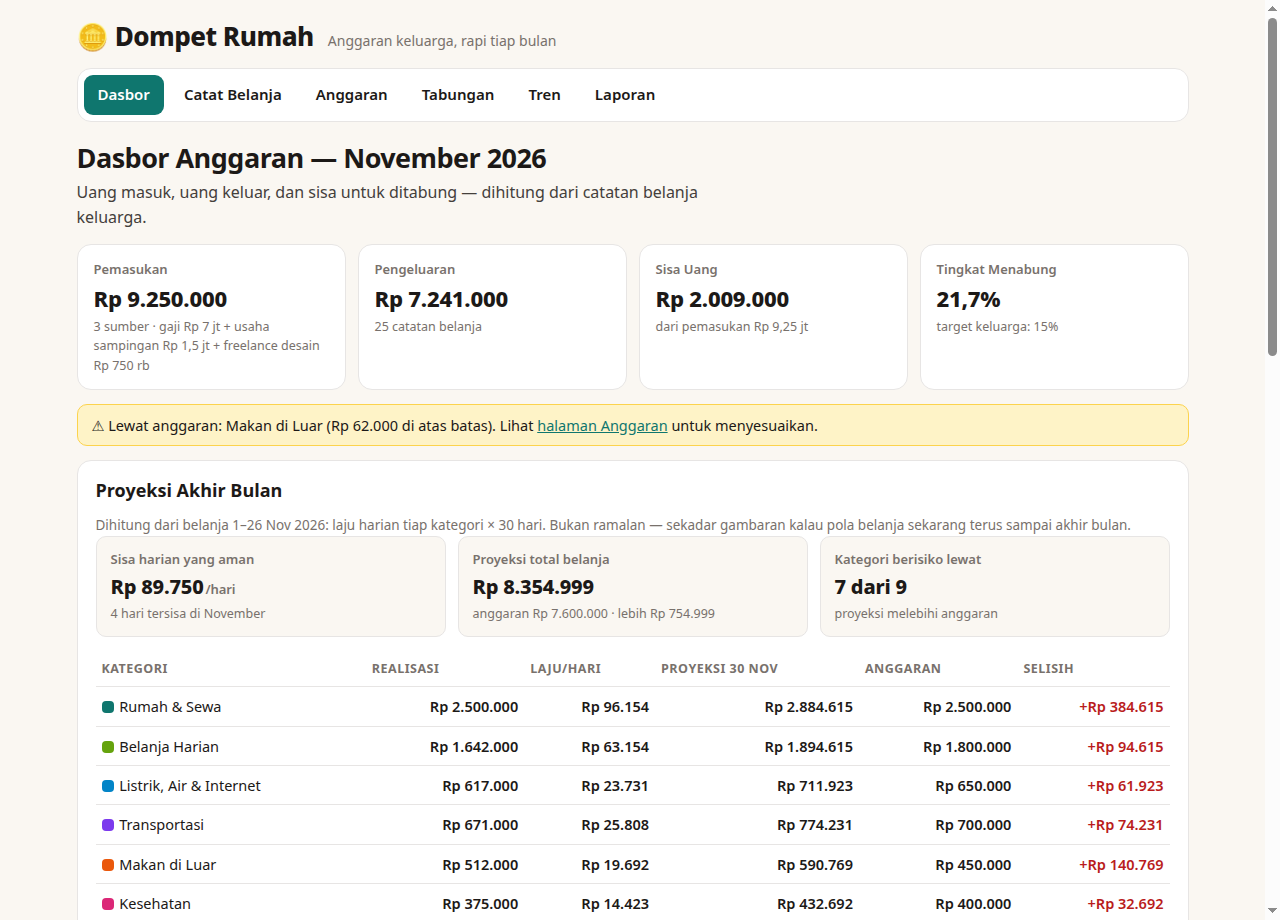
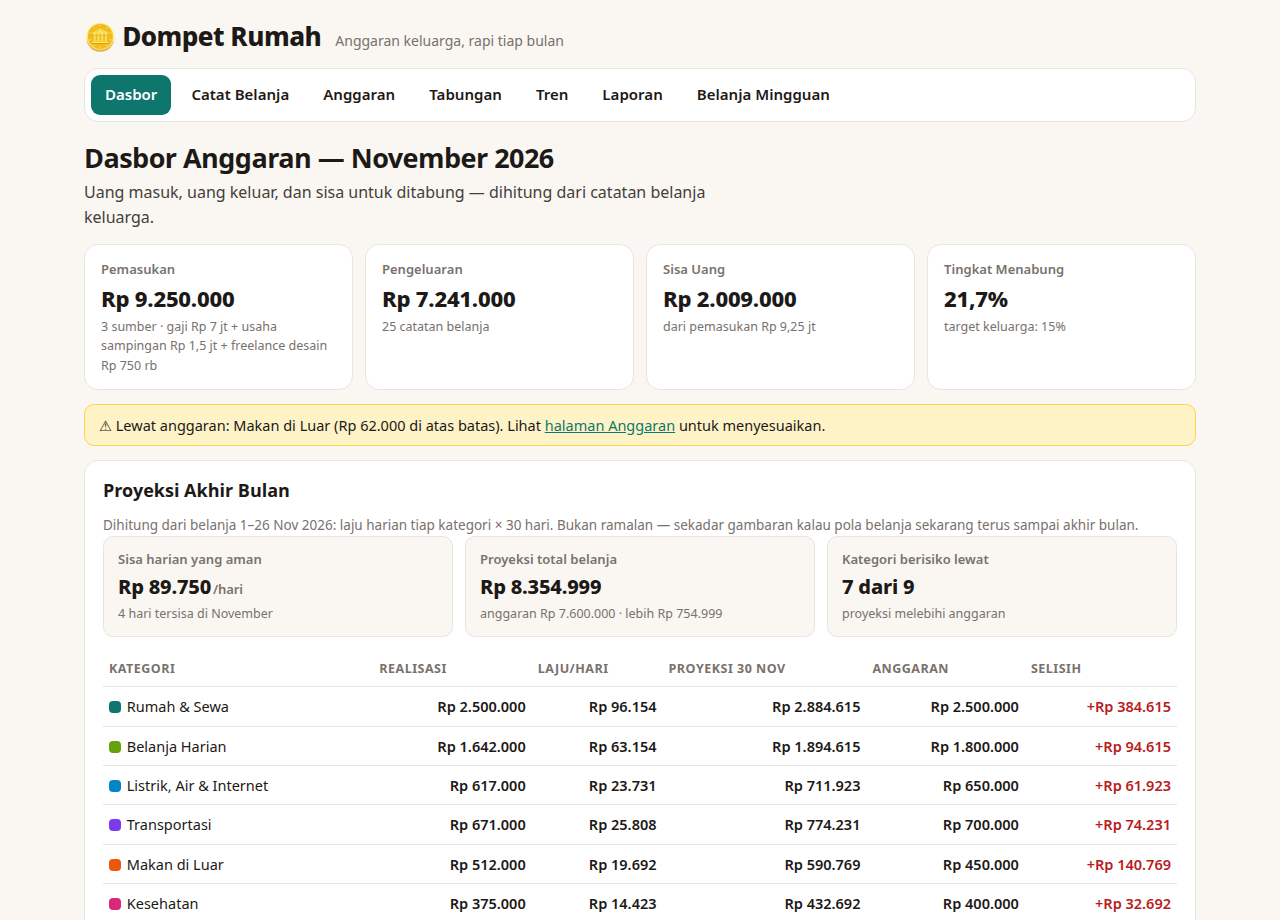
Rebuild: halaman Rencana Belanja Mingguan (#/planner) dengan anggaran, daftar centang, dan tambah/hapus barang

diff --git a/app/data.js b/app/data.js
@@ -70,6 +70,23 @@ const seedState = {
     { id: 'g2', name: 'Liburan Keluarga ke Bali', detail: 'Berangkat Juni 2027, 4 orang', target: 5000000, saved: 2150000, monthly: 500000, color: '#0284c7' },
     { id: 'g3', name: 'Motor Baru', detail: 'Ganti motor lama yang sering mogok', target: 15000000, saved: 4800000, monthly: 600000, color: '#ca8a04' },
   ],
+  // Rencana belanja mingguan: daftar barang untuk minggu 23–29 Nov 2026,
+  // masing-masing dengan perkiraan harga dan tanda sudah dibeli atau
+  // belum. Anggaran mingguan di bawah diambil dari anggaran Belanja
+  // Harian, dibagi empat minggu — halaman Belanja Mingguan menghitung
+  // sendiri berapa yang masih perlu dibeli dari daftar ini.
+  weeklyGroceryBudget: 450000,
+  shopping: [
+    { id: 's01', name: 'Beras 10 kg', category: 'Bahan pokok', price: 128000, bought: false, added: '2026-11-23' },
+    { id: 's02', name: 'Ayam potong 1 kg', category: 'Daging & ikan', price: 36000, bought: false, added: '2026-11-23' },
+    { id: 's03', name: 'Telur ayam 1 kg', category: 'Daging & ikan', price: 28000, bought: true, added: '2026-11-23' },
+    { id: 's04', name: 'Sayur bayam & kangkung', category: 'Sayur & buah', price: 15000, bought: false, added: '2026-11-23' },
+    { id: 's05', name: 'Minyak goreng 2 liter', category: 'Bahan pokok', price: 42000, bought: false, added: '2026-11-24' },
+    { id: 's06', name: 'Sabun cuci & deterjen', category: 'Kebersihan', price: 38000, bought: false, added: '2026-11-24' },
+    { id: 's07', name: 'Buah pisang & jeruk', category: 'Sayur & buah', price: 32000, bought: true, added: '2026-11-25' },
+    { id: 's08', name: 'Kopi & gula pasir', category: 'Bahan pokok', price: 45000, bought: false, added: '2026-11-25' },
+    { id: 's09', name: 'Susu UHT 1 liter', category: 'Minuman', price: 21000, bought: false, added: '2026-11-26' },
+  ],
   // Six months of history for the trend page (income vs money actually spent).
   history: [
     { month: 'Jun 2026', income: 8500000, spent: 7050000 },
@@ -104,6 +121,21 @@ function loadState() {
         if (!Number.isFinite(Number(goal.monthly)) || Number(goal.monthly) < 0) goal.monthly = 0;
         goal.monthly = Math.round(Number(goal.monthly));
       }
+    }
+    // Migrasi data lama: daftar belanja mingguan belum ada sebelum fitur
+    // ini, jadi data tersimpan lama dilengkapi dari data contoh dan tiap
+    // barangnya dirapikan (harga dibulatkan, tanda sudah dibeli dijaga).
+    if (!Array.isArray(parsed.shopping)) parsed.shopping = structuredClone(seedState.shopping);
+    parsed.shopping = parsed.shopping.map((item, index) => ({
+      id: item.id || 's' + Date.now().toString(36) + index,
+      name: String(item.name || 'Barang belanja'),
+      category: String(item.category || 'Lainnya'),
+      price: Math.max(0, Math.round(Number(item.price) || 0)),
+      bought: item.bought === true,
+      added: typeof item.added === 'string' && item.added ? item.added : '2026-11-26',
+    }));
+    if (!Number.isFinite(Number(parsed.weeklyGroceryBudget)) || Number(parsed.weeklyGroceryBudget) < 0) {
+      parsed.weeklyGroceryBudget = seedState.weeklyGroceryBudget;
     }
     return parsed;
   } catch {
@@ -333,6 +365,34 @@ function estimateMonthLabel(months) {
   const baseYear = 2026;
   const total = baseMonth + months;
   return `${names[total % 12]} ${baseYear + Math.floor(total / 12)}`;
+}
+
+// ---- Rencana belanja mingguan. ----
+
+// Kategori barang belanja — dipakai daftar pilihan di formulir tambah
+// barang, supaya kategori yang diketik keluarga tidak berantakan ejaannya.
+const SHOPPING_CATEGORIES = ['Bahan pokok', 'Sayur & buah', 'Daging & ikan', 'Minuman', 'Kebersihan', 'Lainnya'];
+
+// Total rencana belanja: anggaran mingguan, perkiraan harga barang yang
+// belum dibeli, dan yang sudah dibeli — dipakai kartu anggaran dan bilah
+// kemajuan di halaman Belanja Mingguan.
+function plannerTotals(state) {
+  const items = Array.isArray(state.shopping) ? state.shopping : [];
+  const budget = Number(state.weeklyGroceryBudget) || 0;
+  const bought = items.filter((item) => item.bought);
+  const pending = items.filter((item) => !item.bought);
+  const boughtTotal = bought.reduce((sum, item) => sum + (Number(item.price) || 0), 0);
+  const pendingTotal = pending.reduce((sum, item) => sum + (Number(item.price) || 0), 0);
+  return {
+    budget,
+    count: items.length,
+    boughtCount: bought.length,
+    pendingCount: pending.length,
+    boughtTotal,
+    pendingTotal,
+    remaining: budget - pendingTotal,
+    over: pendingTotal > budget,
+  };
 }
 
 // CSV export for the monthly report page: one row per expense, newest

diff --git a/app/main.js b/app/main.js
@@ -9,6 +9,7 @@
 //   #/expenses   expense log    #/trends  six-month trend
 //   #/budget     budget vs actual
 //   #/report     monthly report with CSV export
+//   #/planner    weekly shopping list with a grocery budget
 //
 // window.__shotReady is false while a page renders and true once it is on
 // screen, so a screenshot script knows when to capture.
@@ -16,7 +17,7 @@
 const app = document.getElementById('app');
 let state = loadState();
 
-const NAV_ROUTES = { '#/': 1, '#/expenses': 1, '#/budget': 1, '#/goals': 1, '#/trends': 1, '#/report': 1 };
+const NAV_ROUTES = { '#/': 1, '#/expenses': 1, '#/budget': 1, '#/goals': 1, '#/trends': 1, '#/report': 1, '#/planner': 1 };
 const TITLES = {
   '#/': 'Dasbor',
   '#/expenses': 'Catat Belanja',
@@ -24,6 +25,7 @@ const TITLES = {
   '#/goals': 'Tabungan & Tujuan',
   '#/trends': 'Tren 6 Bulan',
   '#/report': 'Laporan Bulanan',
+  '#/planner': 'Belanja Mingguan',
 };
 
 function drawCharts(route) {
@@ -58,6 +60,7 @@ function render() {
     '#/goals': goalsPage,
     '#/trends': trendsPage,
     '#/report': reportPage,
+    '#/planner': plannerPage,
   };
   document.title = `${TITLES[route]} | Dompet Rumah`;
   app.innerHTML = nav(route) + pages[route](state);
@@ -106,8 +109,30 @@ function addIncome(form) {
   return true;
 }
 
-function applyExpenseFilter() {
-  const category = document.getElementById('filter-category').value;
+// Barang belanja baru: nama, kategori, perkiraan harga. Masuk ke daftar
+// rencana belanja mingguan; harga di bawah Rp 500 ditolak sebagai
+// kemungkinan salah ketik, di atas Rp 5 jt ditolak karena bukan belanja
+// mingguan rumah tangga biasa. Kategori yang tidak dikenal jatuh ke
+// "Lainnya" supaya daftar pilihan di halaman tetap rapi.
+function addShopping(form) {
+  const fields = readForm(form);
+  const price = Math.round(Number(fields.price));
+  if (!fields.name || !Number.isFinite(price) || price < 500 || price > 5000000) return false;
+  const category = SHOPPING_CATEGORIES.includes(fields.category) ? fields.category : 'Lainnya';
+  if (!Array.isArray(state.shopping)) state.shopping = [];
+  state.shopping.push({
+    id: 's' + Date.now().toString(36),
+    name: fields.name.trim(),
+    category,
+    price,
+    bought: false,
+    added: '2026-11-26',
+  });
+  saveState(state);
+  return true;
+}
+
+function applyExpenseFilter() {  const category = document.getElementById('filter-category').value;
   const query = document.getElementById('filter-search').value.trim().toLowerCase();
   const rows = document.getElementById('expense-rows');
   const filtered = [...state.expenses]
@@ -232,6 +257,33 @@ function wirePage(route) {
     });
   }
 
+  // Planner page: the add-item form and the bought checkboxes. Checking
+  // an item saves it and re-renders, so the budget card and the progress
+  // bar follow the list immediately.
+  const shoppingForm = document.getElementById('add-shopping');
+  if (shoppingForm) {
+    shoppingForm.addEventListener('submit', (event) => {
+      event.preventDefault();
+      const status = document.getElementById('shopping-status');
+      if (addShopping(shoppingForm)) {
+        render();
+        const fresh = document.getElementById('shopping-status');
+        if (fresh) fresh.textContent = '✓ Barang ditambahkan ke daftar belanja minggu ini.';
+      } else if (status) {
+        status.textContent = '⚠ Periksa lagi isian Anda: nama wajib diisi dan harga antara Rp 500 sampai Rp 5.000.000.';
+      }
+    });
+  }
+  for (const box of app.querySelectorAll('[data-action="shop-toggle"]')) {
+    box.addEventListener('change', () => {
+      const item = state.shopping.find((s) => s.id === box.dataset.id);
+      if (!item) return;
+      item.bought = box.checked;
+      saveState(state);
+      render();
+    });
+  }
+
   // Report page: the CSV is built in the browser from the live state and
   // downloaded as a file — no network, nothing leaves the device.
   const csvButton = document.getElementById('download-csv');
@@ -266,6 +318,13 @@ app.addEventListener('click', (event) => {
   const incomeButton = event.target.closest('[data-action="delete-income"]');
   if (incomeButton) {
     state.income = state.income.filter((line) => line.id !== incomeButton.dataset.id);
+    saveState(state);
+    render();
+    return;
+  }
+  const shoppingButton = event.target.closest('[data-action="delete-shopping"]');
+  if (shoppingButton) {
+    state.shopping = state.shopping.filter((item) => item.id !== shoppingButton.dataset.id);
     saveState(state);
     render();
   }

diff --git a/app/views.js b/app/views.js
@@ -8,6 +8,7 @@
 //   #/goals      Tabungan — savings goals with deposits
 //   #/trends     Tren — six months of income vs spending
 //   #/report     Laporan — monthly summary per category, with CSV export
+//   #/planner    Belanja Mingguan — weekly shopping list against a budget
 //
 // Every figure is rendered from the live state (see data.js), so a new
 // expense, a changed budget or a deposit redraws every page at once.
@@ -20,6 +21,7 @@ const NAV = [
   ['#/goals', 'Tabungan'],
   ['#/trends', 'Tren'],
   ['#/report', 'Laporan'],
+  ['#/planner', 'Belanja Mingguan'],
 ];
 
 function incomeSection(state) {
@@ -357,5 +359,46 @@ function trendsPage(state) {
       <li><strong>Pertahankan Belanja Harian</strong> — Rp 1.642.000 dari Rp 1.800.000: belanja pasar mingguan terbukti lebih murah daripada supermarket harian.</li>
       <li><strong>Otomatiskan tabungan</strong> — pindahkan Rp 900.000 ke Dana Darurat tiap tanggal 1, sebelum uang sempat terpakai.</li>
     </ul>
+  </section>`;
+}
+
+function plannerPage(state) {
+  const totals = plannerTotals(state);
+  const pct = totals.count > 0 ? Math.round((totals.boughtCount / totals.count) * 100) : 0;
+  const rows = [...state.shopping]
+    .sort((a, b) => (a.bought === b.bought ? a.added.localeCompare(b.added) : Number(a.bought) - Number(b.bought)))
+    .map((item) => `<li class="shop-item${item.bought ? ' done' : ''}">
+      <label class="shop-check"><input type="checkbox" data-action="shop-toggle" data-id="${item.id}"${item.bought ? ' checked' : ''}>
+      <span class="shop-name">${escapeHtml(item.name)}</span></label>
+      <span class="chip">${escapeHtml(item.category)}</span>
+      <span class="amount">${formatRupiah(item.price)}</span>
+      <span class="shop-date">${formatDate(item.added)}</span>
+      <button class="btn-small danger-outline" data-action="delete-shopping" data-id="${item.id}" aria-label="Hapus ${escapeHtml(item.name)}">Hapus</button>
+    </li>`).join('');
+  const options = SHOPPING_CATEGORIES.map((c) => `<option value="${c}">${c}</option>`).join('');
+  return `
+  <h1>Rencana Belanja Mingguan</h1>
+  <p class="lede">Daftar belanja minggu ini (23–29 Nov 2026) untuk Keluarga Pratama. Centang barang yang sudah dibeli — total dan bilah kemajuan langsung mengikuti, dan daftar ini tersimpan di perangkat Anda.</p>
+  <section class="card planner-budget" aria-label="Anggaran belanja mingguan">
+    <h2>Anggaran Belanja Minggu Ini</h2>
+    <div class="projection-summary">
+      <div class="proj-stat"><span class="stat-label">Anggaran mingguan</span><strong class="stat-value">${formatRupiah(totals.budget)}</strong><span class="stat-note">dari anggaran Belanja Harian</span></div>
+      <div class="proj-stat"><span class="stat-label">Masih perlu dibeli</span><strong class="stat-value">${formatRupiah(totals.pendingTotal)}</strong><span class="stat-note">${totals.pendingCount} barang belum dibeli</span></div>
+      <div class="proj-stat"><span class="stat-label">Sisa anggaran</span><strong class="stat-value ${totals.over ? 'negative' : ''}">${formatRupiah(totals.remaining)}</strong><span class="stat-note">${totals.over ? 'daftar belanja melebihi anggaran — kurangi atau geser ke minggu depan' : 'cukup untuk daftar belanja minggu ini'}</span></div>
+    </div>
+    <div class="bar" role="progressbar" aria-valuenow="${pct}" aria-valuemin="0" aria-valuemax="100" aria-label="Kemajuan belanja mingguan"><div class="bar-fill" style="width:${pct}%"></div></div>
+    <p class="hint"><strong>${totals.boughtCount} dari ${totals.count} barang sudah dibeli</strong> (${pct}%) — sudah keluar ${formatRupiah(totals.boughtTotal)}.</p>
+  </section>
+  <section class="card" aria-label="Daftar belanja">
+    <h2>Daftar Belanja</h2>
+    <ul class="shop-list">${rows || '<li class="shop-empty">Daftar belanja kosong — tambah barang pertama di bawah.</li>'}</ul>
+    <h2 class="sub">Tambah Barang</h2>
+    <form id="add-shopping" class="form-grid">
+      <label>Nama barang <input name="name" required maxlength="60" placeholder="cth. Beras 5 kg"></label>
+      <label>Kategori <select name="category">${options}</select></label>
+      <label>Perkiraan harga (Rp) <input name="price" type="number" min="500" step="500" required placeholder="25000"></label>
+      <button class="btn primary" type="submit">+ Tambah ke Daftar</button>
+    </form>
+    <p class="hint" id="shopping-status" role="status"></p>
   </section>`;
 }

diff --git a/app/index.html b/app/index.html
@@ -4,7 +4,7 @@
 <meta charset="utf-8">
 <meta name="viewport" content="width=device-width, initial-scale=1">
 <title>Dompet Rumah — Anggaran Keluarga</title>
-<meta name="description" content="Dompet Rumah: dasbor anggaran keluarga — pemasukan, belanja per kategori, anggaran vs realisasi, proyeksi akhir bulan, tabungan, tren enam bulan, dan laporan bulanan dengan unduhan CSV. Semua dihitung dari catatan belanja keluarga.">
+<meta name="description" content="Dompet Rumah: dasbor anggaran keluarga — pemasukan, belanja per kategori, anggaran vs realisasi, proyeksi akhir bulan, tabungan, tren enam bulan, laporan bulanan dengan unduhan CSV, dan rencana belanja mingguan. Semua dihitung dari catatan belanja keluarga.">
 <link rel="icon" href="data:,">
 <link rel="stylesheet" href="style.css">
 <script defer src="data.js"></script>
@@ -20,7 +20,7 @@
 <main id="app" class="page"></main>
 <footer class="site-footer">
   <p><strong>Dompet Rumah</strong> — dibuat untuk Keluarga Pratama, November 2026. Data contoh tersimpan di perangkat Anda; tidak ada data yang dikirim ke mana pun.</p>
-  <p class="foot-links"><a href="#/">Dasbor</a> · <a href="#/expenses">Catat Belanja</a> · <a href="#/budget">Anggaran</a> · <a href="#/goals">Tabungan</a> · <a href="#/trends">Tren</a> · <a href="#/report">Laporan</a></p>
+  <p class="foot-links"><a href="#/">Dasbor</a> · <a href="#/expenses">Catat Belanja</a> · <a href="#/budget">Anggaran</a> · <a href="#/goals">Tabungan</a> · <a href="#/trends">Tren</a> · <a href="#/report">Laporan</a> · <a href="#/planner">Belanja Mingguan</a></p>
 </footer>
 </body>
 </html>

diff --git a/app/style.css b/app/style.css
@@ -345,6 +345,19 @@ input:focus, select:focus { outline: 2px solid var(--teal); outline-offset: 1px;
 .table tfoot td { border-top: 2px solid var(--line); border-bottom: 0; }
 #csv-status { color: var(--green); font-weight: 600; }
 
+/* ---- Planner page ---- */
+
+.shop-list { list-style: none; margin: 0; padding: 0; }
+.shop-item { display: flex; align-items: center; gap: 10px; padding: 10px 0; border-bottom: 1px solid var(--line); flex-wrap: wrap; }
+.shop-item:last-child { border-bottom: 0; }
+.shop-item.done .shop-name { text-decoration: line-through; color: var(--muted); }
+.shop-check { display: flex; align-items: center; gap: 8px; flex: 1 1 220px; cursor: pointer; }
+.shop-check input { width: 18px; height: 18px; accent-color: var(--green); flex-shrink: 0; }
+.shop-name { font-weight: 600; }
+.shop-date { color: var(--muted); font-size: 13px; }
+.shop-empty { padding: 12px 0; color: var(--muted); }
+.planner-budget .bar { margin: 14px 0 6px; }
+
 /* ---- Phone layout ---- */
 
 @media (max-width: 860px) {
@@ -365,4 +378,8 @@ input:focus, select:focus { outline: 2px solid var(--teal); outline-offset: 1px;
   .goal-monthly { flex-direction: column; align-items: stretch; }
   .goal-monthly .hint { max-width: none; }
   #add-income .btn { justify-self: stretch; }
+  /* Daftar belanja menumpuk di layar kecil: nama barang jadi baris
+     sendiri, harga dan tombol hapus pindah ke baris bawah. */
+  .shop-item { gap: 6px 10px; }
+  .shop-check { flex-basis: 100%; }
 }

diff --git a/main.ts b/main.ts
@@ -1,3 +1,8 @@
+// Penyerahan "Dompet Rumah" sebagai situs statis: skrip kecil ini menyalin
+// folder app/ dan screenshots/ ke direktori keluaran, lalu merangkum
+// semuanya ke dalam dossier.json untuk penilai — tanpa server, tanpa
+// jaringan, hanya berkas yang sudah ada di repo ini.
+//
 // Dompet Rumah — the hand-in program (Node 22, standard library only).
 //
 // The entry is the static site in app/ beside this file plus the
@@ -17,7 +22,12 @@ import { buildDossier } from './vendor/makefun-frontend.ts';
 const here = fileURLToPath(new URL('.', import.meta.url));
 const out = process.env.MAKEFUN_OUTPUT_DIR ?? '/output';
 
-mkdirSync(out, { recursive: true });
+try {
+  mkdirSync(out, { recursive: true });
+} catch (error) {
+  console.error(`Tidak bisa membuat direktori keluaran ${out}: ${error instanceof Error ? error.message : String(error)}`);
+  process.exit(1);
+}
 cpSync(join(here, 'app'), join(out, 'app'), { recursive: true });
 mkdirSync(join(out, 'screenshots'), { recursive: true });
 if (existsSync(join(here, 'screenshots'))) {
